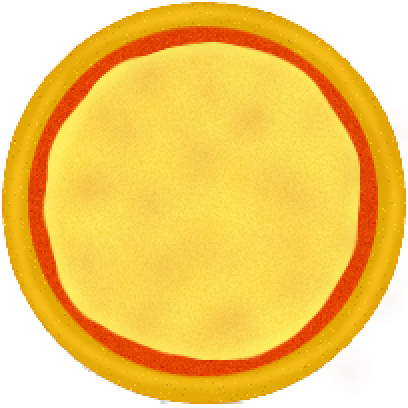
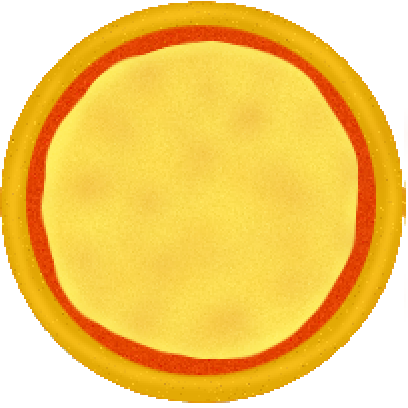
-Fixed code that would call the release of all objects instead of just held objects -Held objects no longer rotate while held, and retain their rotation when released -Fixed pizza rotating askew, draw position was off

diff --git a/src/main/java/GameSprites/CircleSprite.java b/src/main/java/GameSprites/CircleSprite.java
@@ -14,13 +14,13 @@ import java.util.Objects;
  */
 public class CircleSprite extends GameObject {
     private double angle = 160;
-    private double rotationAngle = 0;
     private double radius = 25;
     private double tempX;
     private double tempY;
     private double rad = 0;
     private double scalar;
-    private int defaultrotation;
+    private double defaultrotation;
+    private double currentRotation;
     private Color color = Color.RED;
 
     private BufferedImage image = new BufferedImage(50,50,BufferedImage.TYPE_INT_ARGB);
@@ -33,7 +33,8 @@ public class CircleSprite extends GameObject {
         width = 32;
         height = 32;
         scalar = Math.random()*1.2+0.8;
-        defaultrotation = (int) Math.floor(Math.random()*360);
+        defaultrotation = Math.random()*Math.PI*2;
+        currentRotation = defaultrotation;
 
         String[] options = {"images/blackolive.png", "images/mushroom.png", "images/pepperoni.png", "images/sausage.png"};
         try {
@@ -111,10 +112,32 @@ public class CircleSprite extends GameObject {
         double height = this.height*scalar;
 
         double rotationRequired = Math.toRadians (angle);
-        rotationAngle += 5;
         double locationX = this.width*scalar / 2;
         double locationY = this.height*scalar / 2;
-        AffineTransform tx = AffineTransform.getRotateInstance(rotationRequired+defaultrotation, locationX, locationY);
+        if (released) {
+            this.released = false;
+            double tempRotation = Math.toDegrees(currentRotation);
+            if (tempRotation < 0) {
+                tempRotation = 360 + tempRotation;
+            }
+            double tempAngle = angle;
+            if (tempAngle < 0){
+                tempAngle = 360 + tempAngle;
+            }
+            double tempNewRotation = tempRotation - tempAngle;
+            if (tempNewRotation > 180) {
+                tempNewRotation = tempNewRotation - 360;
+            }
+            System.out.println(tempRotation+" "+tempAngle+" "+tempNewRotation);
+            defaultrotation = Math.toRadians(tempNewRotation);
+        }
+        if (!held) {
+            currentRotation = rotationRequired + defaultrotation;
+        }
+        if (held) {
+            //System.out.println(Math.toDegrees(currentRotation));
+        }
+        AffineTransform tx = AffineTransform.getRotateInstance(currentRotation, locationX, locationY);
         tx.concatenate(AffineTransform.getScaleInstance(width/(double)image.getWidth(), height/(double)image.getHeight()));
         AffineTransformOp op = new AffineTransformOp(tx, AffineTransformOp.TYPE_BILINEAR);
         // Drawing the rotated image at the required drawing locations

diff --git a/src/main/java/Main.java b/src/main/java/Main.java
@@ -98,8 +98,8 @@ public class Main extends Canvas implements Runnable, MouseListener, MouseMotion
 
 
         // The required drawing location
-        int drawLocationX = 100;
-        int drawLocationY = 100;
+        int drawLocationX = 300;
+        int drawLocationY = 300;
 
         // Rotation information
 
@@ -110,7 +110,8 @@ public class Main extends Canvas implements Runnable, MouseListener, MouseMotion
         AffineTransformOp op = new AffineTransformOp(tx, AffineTransformOp.TYPE_BILINEAR);
 
         // Drawing the rotated image at the required drawing locations
-        g2.drawImage(op.filter(pizza, null), drawLocationX, drawLocationY, null);
+        g2.drawImage(op.filter(pizza, null), drawLocationX-pizza.getWidth()/2, drawLocationY-pizza.getHeight()/2, null);
+        //g2.fillOval(drawLocationX-340/2, drawLocationY-340/2, 340, 340);
 
         g2.dispose();
 

diff --git a/src/main/java/GameSprites/GameObject.java b/src/main/java/GameSprites/GameObject.java
@@ -10,6 +10,7 @@ public abstract class GameObject implements Sprites {
     protected int x, y;
     protected int width, height;
     protected boolean held = false;
+    protected boolean released = false;
     protected LinkedHashSet<Integer> keys = new LinkedHashSet<>();
 
     public GameObject(){
@@ -21,7 +22,10 @@ public abstract class GameObject implements Sprites {
     public GameObject(int x, int y){
     }
     public void letgo(){
-        held = false;
+        if (held) {
+            held = false;
+            released = true;
+        }
     }
     public boolean holdcheck(int mouseX, int mouseY){
         if ((mouseX >= x)&&(mouseX <= x+width)&&(mouseY >= y)&&(mouseY <= y+height)) {
